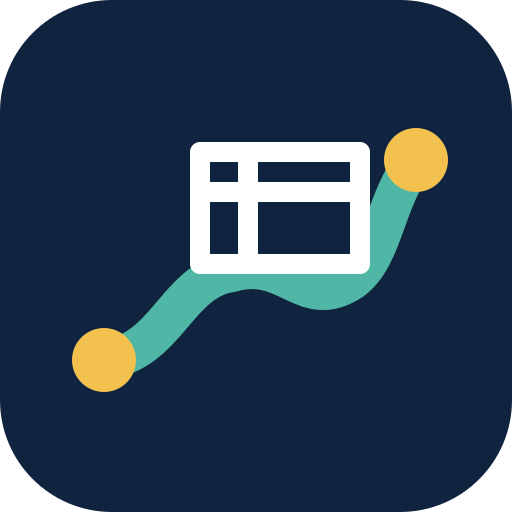
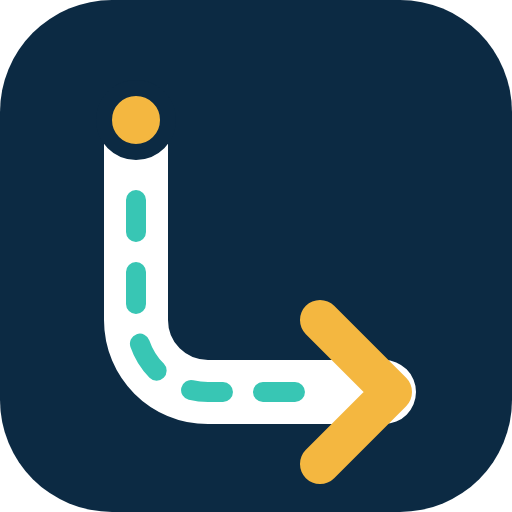
Polish public marketplace and brand
Implements FEAT-MKT-001 and FEAT-IAM-001 public Board navigation, identity-safe truck imagery, and installable brand assets.

Changed region(s): [[0.125, 0.1875, 0.875, 0.9688]]

diff --git a/src/components/public-board-preview.tsx b/src/components/public-board-preview.tsx
@@ -1,13 +1,16 @@
 "use client";
 
 import React from 'react';
+import Image from 'next/image';
 import Link from 'next/link';
 import { useRouter } from 'next/navigation';
-import { ArrowRight, Banknote, Boxes, CalendarClock, CircleDotDashed, Clock3, Eye, Gauge, Layers3, LockKeyhole, MapPin, MapPinned, Route, ShieldCheck, Truck, UserRound, Waypoints } from 'lucide-react';
+import { ArrowRight, Banknote, Boxes, CalendarClock, CircleDotDashed, Clock3, Eye, Gauge, Layers3, MapPin, MapPinned, Route, Truck, UserRound, Waypoints } from 'lucide-react';
+import { vehicleConfigurationImage } from '@/lib/vehicle-configurations';
 
 type ShipmentPreview={movement_scope:string;origin?:string|null;destination?:string|null;local_place_label?:string|null;pickup_area_label?:string|null;dropoff_area_label?:string|null;load_type?:string|null;vehicle_category?:string|null;pickup_label?:string|null;delivery_label?:string|null;price_mode?:string|null;price_minor?:number|null;distribution_mode?:string|null;posted_label?:string|null};
-type TruckPreview={status:string;available_percent?:number|null;available_again_date?:string|null;available_again_place_label?:string|null;movement_scope?:string|null;local_place_label?:string|null;local_radius_km?:number|null;location_area?:string|null;location_precision_km?:number|null;current_route_origin?:string|null;current_route_destination?:string|null;origin?:string|null;destination?:string|null;travel_date?:string|null;planned_space_status?:string|null;vehicle_make?:string|null;vehicle_model?:string|null;cargo_configuration?:string|null;accepts_full_load:boolean;accepts_partial_load:boolean;accepts_multi_pick:boolean;accepts_multi_drop:boolean;open_to_contract_lanes:boolean;proof_available:boolean;freshness?:string|null;updated_label?:string|null};
+type TruckPreview={status:string;available_percent?:number|null;available_again_date?:string|null;available_again_place_label?:string|null;movement_scope?:string|null;local_place_label?:string|null;local_radius_km?:number|null;location_area?:string|null;location_precision_km?:number|null;current_route_origin?:string|null;current_route_destination?:string|null;origin?:string|null;destination?:string|null;travel_date?:string|null;planned_space_status?:string|null;cargo_configuration?:string|null;accepts_full_load:boolean;accepts_partial_load:boolean;accepts_multi_pick:boolean;accepts_multi_drop:boolean;open_to_contract_lanes:boolean;proof_available:boolean;freshness?:string|null;updated_label?:string|null};
 type SharedPreview={pool:{member_count:number;origin:string|null;destination:string|null;origin_spread_km:number;destination_spread_km:number;earliest_pickup:string|null;latest_delivery:string|null}|null;along:{member_count:number;origin:string|null;destination:string|null;loaded_distance_km:number;connector_distance_km:number;stops:{origin:string|null;destination:string|null}[]}|null};
+type PublicBoard='SHIPMENTS'|'TRUCKS';
 
 function priceLabel(shipment:ShipmentPreview){
   if(shipment.price_mode==='QUOTE_REQUESTED')return 'Request quotes';
@@ -33,50 +36,56 @@ function stopPolicy(truck:TruckPreview){
   return 'Direct only';
 }
 
+function capacityStatus(status:string){
+  return status.charAt(0)+status.slice(1).toLowerCase().replaceAll('_',' ');
+}
+
 function truckRoute(truck:TruckPreview){
   if(truck.status==='PARTIAL'&&truck.current_route_origin)return `${truck.current_route_origin} → ${truck.current_route_destination}`;
   if(truck.origin)return `${truck.origin} → ${truck.destination}`;
   if(truck.movement_scope==='LOCAL')return `Local in ${truck.local_place_label||truck.location_area||'selected city'}`;
   if(truck.movement_scope==='BOTH'&&truck.local_place_label)return `Local + long-distance · ${truck.local_place_label}`;
-  return truck.status==='EMPTY'?'Willing to go anywhere':'Preferred route available after login';
+  return truck.status==='EMPTY'?'Willing to go anywhere':'Route not specified';
 }
 
-export function PublicBoardPreview({shipments,trucks,shared}:{shipments:ShipmentPreview[];trucks:TruckPreview[];shared:SharedPreview}){
+export function PublicBoardPreview({initialBoard,shipments,trucks,shared}:{initialBoard:PublicBoard;shipments:ShipmentPreview[];trucks:TruckPreview[];shared:SharedPreview}){
   const router=useRouter();
-  const [active,setActive]:['SHIPMENTS'|'TRUCKS',(value:'SHIPMENTS'|'TRUCKS')=>void]=React.useState('SHIPMENTS');
+  const [active,setActive]:[PublicBoard,(value:PublicBoard)=>void]=React.useState(initialBoard);
+  React.useEffect(()=>setActive(initialBoard),[initialBoard]);
   React.useEffect(()=>{
     const timer=window.setInterval(()=>{if(document.visibilityState==='visible')router.refresh();},60000);
     return()=>window.clearInterval(timer);
   },[router]);
+  const selectBoard=(board:PublicBoard)=>{
+    setActive(board);
+    router.push(`/?board=${board}#marketplace-preview-title`);
+  };
   const rows=active==='SHIPMENTS'?shipments:trucks;
-  const label=active==='SHIPMENTS'?'Shipment Board':'Truck Board';
-  const BoardIcon=active==='SHIPMENTS'?Boxes:Truck;
   return <section className="public-board-section" aria-labelledby="marketplace-preview-title"><div className="container">
-    <div className="public-board-heading"><div><span className="eyebrow"><Eye aria-hidden="true"/>Live marketplace</span><h2 id="marketplace-preview-title">Shipments meet available trucks.</h2></div><p>Real routes and matching signals. Member identity and contact stay protected.</p></div>
+    <div className="public-board-heading"><div><span className="eyebrow"><Eye aria-hidden="true"/>Live marketplace</span><h2 id="marketplace-preview-title">Shipments meet available trucks.</h2></div></div>
     <div className="public-board-shell">
       <div className="public-board-tabs" role="tablist" aria-label="Marketplace boards">
-        <button type="button" role="tab" aria-selected={active==='SHIPMENTS'} className={active==='SHIPMENTS'?'active':''} onClick={()=>setActive('SHIPMENTS')}><Boxes aria-hidden="true"/><span>Shipment Board</span></button>
-        <button type="button" role="tab" aria-selected={active==='TRUCKS'} className={active==='TRUCKS'?'active':''} onClick={()=>setActive('TRUCKS')}><Truck aria-hidden="true"/><span>Truck Board</span></button>
+        <button type="button" role="tab" aria-controls="marketplace-preview-panel" aria-selected={active==='SHIPMENTS'} className={active==='SHIPMENTS'?'active':''} onClick={()=>selectBoard('SHIPMENTS')}><Boxes aria-hidden="true"/><span>Shipment Board</span></button>
+        <button type="button" role="tab" aria-controls="marketplace-preview-panel" aria-selected={active==='TRUCKS'} className={active==='TRUCKS'?'active':''} onClick={()=>selectBoard('TRUCKS')}><Truck aria-hidden="true"/><span>Truck Board</span></button>
       </div>
-      <div className="public-board-toolbar"><strong><BoardIcon aria-hidden="true"/>{label}</strong><span><LockKeyhole aria-hidden="true"/>Names and contacts require login</span></div>
-      <div className="public-board-list" role="tabpanel">
+      <div className="public-board-list" id="marketplace-preview-panel" role="tabpanel">
         {active==='SHIPMENTS'?<>
           {shared.pool||shared.along?<div className="public-shared-matches">
             {shared.pool?<article><Layers3 aria-hidden="true"/><div><span className="status green">Pool together</span><h3>{shared.pool.member_count} Partial Truckload shipments</h3><p>{shared.pool.origin} <ArrowRight aria-hidden="true"/> {shared.pool.destination}</p><small><CircleDotDashed aria-hidden="true"/> Origins within {shared.pool.origin_spread_km} km · destinations within {shared.pool.destination_spread_km} km</small></div><Link href="/login" className="button secondary"><Eye aria-hidden="true"/>View</Link></article>:null}
             {shared.along?<article><MapPinned aria-hidden="true"/><div><span className="status blue">Along the route</span><h3>{shared.along.member_count} shipments in travel order</h3><p>{shared.along.origin} <ArrowRight aria-hidden="true"/> {shared.along.destination}</p><small><Route aria-hidden="true"/> {shared.along.loaded_distance_km} km carrying shipments · {shared.along.connector_distance_km} km between work</small></div><Link href="/login" className="button secondary"><Eye aria-hidden="true"/>View</Link></article>:null}
           </div>:null}
           {(shipments as ShipmentPreview[]).map((shipment,index)=><article className="locked-board-card rich-preview-card" key={index}>
-          <div className="preview-card-main"><div className="preview-card-title"><span className="status green">{shipment.load_type||'Freight'}</span><h3>{shipment.vehicle_category||'Road-freight shipment'}</h3></div><p className="preview-route"><Waypoints aria-hidden="true"/>{shipmentRoute(shipment)}</p><div className="preview-identity"><UserRound aria-hidden="true"/><span><small>Business</small><strong>Shown after login</strong></span><ShieldCheck aria-label="Member identity protected"/></div></div>
+          <div className="preview-card-main"><div className="preview-card-title"><span className="status green">{shipment.load_type||'Freight'}</span><h3>{shipment.vehicle_category||'Road-freight shipment'}</h3></div><p className="preview-route"><Waypoints aria-hidden="true"/>{shipmentRoute(shipment)}</p></div>
           <div className="locked-card-facts"><div><Truck aria-hidden="true"/><span><small>Truck needed</small><strong>{shipment.vehicle_category||'Discuss directly'}</strong></span></div><div><CalendarClock aria-hidden="true"/><span><small>Pick up before</small><strong>{shipment.pickup_label||'Date open'}</strong></span></div><div><Clock3 aria-hidden="true"/><span><small>Drop off before</small><strong>{shipment.delivery_label||'Date open'}</strong></span></div><div><Banknote aria-hidden="true"/><span><small>Price</small><strong>{priceLabel(shipment)}</strong></span></div></div>
           <div className="preview-tags"><span>{shipment.movement_scope==='LOCAL'?'Local':'Long-distance route'}</span><span>{shipment.distribution_mode==='OPEN_MARKET'?'Public':'Limited'}</span><span>Posted {shipment.posted_label||'recently'}</span></div>
           <div className="preview-card-actions"><Link href="/login" className="button secondary"><Eye aria-hidden="true"/>Details</Link><Link href="/login" className="button"><UserRound aria-hidden="true"/>Contact<ArrowRight aria-hidden="true"/></Link></div>
         </article>)}</>:(trucks as TruckPreview[]).map((truck,index)=><article className="locked-board-card rich-preview-card" key={index}>
-          <div className="preview-card-main"><div className="preview-card-title"><span className="status green">{truck.status}{truck.status!=='BUSY'?` · ${truck.available_percent||0}%`:''}</span><h3>{[truck.vehicle_make,truck.vehicle_model].filter(Boolean).join(' · ')||truck.cargo_configuration||'Available truck'}</h3></div><p className="preview-route"><Route aria-hidden="true"/>{truckRoute(truck)}</p><div className="preview-identity"><UserRound aria-hidden="true"/><span><small>Transporter</small><strong>Shown after login</strong></span><ShieldCheck aria-label="Member identity protected"/></div></div>
-          <div className="locked-card-facts"><div><Truck aria-hidden="true"/><span><small>Cargo configuration</small><strong>{truck.cargo_configuration||'Truck configuration'}</strong></span></div><div><MapPin aria-hidden="true"/><span><small>Current area</small><strong>{truck.location_area||truck.local_place_label||'General area shared'}</strong></span></div><div><Boxes aria-hidden="true"/><span><small>{truck.status==='BUSY'?'Available near':'Accepting'}</small><strong>{truck.status==='BUSY'?truck.available_again_place_label||'Expected area pending':`${acceptedLoads(truck)} · ${stopPolicy(truck)}`}</strong></span></div><div><Clock3 aria-hidden="true"/><span><small>Freshness</small><strong>{truck.updated_label||truck.freshness||'Recently updated'}</strong></span></div></div>
-          <div className="preview-tags"><span>{truck.movement_scope==='BOTH'?'Local + long-distance':truck.movement_scope==='LOCAL'?'Local':'Long-distance route'}</span><span>{truck.proof_available?'Photo recorded':'No photo'}</span><span>{truck.open_to_contract_lanes?'Contract routes':'Single trip'}</span>{truck.status==='BUSY'&&truck.available_again_date?<span>Ready {truck.available_again_date}</span>:null}</div>
+          <div className="preview-card-main truck-preview-main"><Image className="truck-thumbnail large" src={vehicleConfigurationImage(truck.cargo_configuration)} alt={truck.cargo_configuration||'Truck configuration'} width={120} height={120}/><div><div className="preview-card-title"><span className="status green">{capacityStatus(truck.status)}{truck.status!=='BUSY'?` · ${truck.available_percent||0}%`:''}</span><h3>{truck.cargo_configuration||'Available truck'}</h3></div><p className="preview-route"><Route aria-hidden="true"/>{truckRoute(truck)}</p></div></div>
+          <div className="locked-card-facts"><div><MapPin aria-hidden="true"/><span><small>Current area</small><strong>{truck.location_area||truck.local_place_label||'Area not set'}</strong></span></div><div><Boxes aria-hidden="true"/><span><small>Shipment size</small><strong>{acceptedLoads(truck)}</strong></span></div><div><Route aria-hidden="true"/><span><small>Stops</small><strong>{stopPolicy(truck)}</strong></span></div><div><Clock3 aria-hidden="true"/><span><small>Updated</small><strong>{truck.updated_label||truck.freshness||'Recently updated'}</strong></span></div></div>
+          <div className="preview-tags"><span>{truck.movement_scope==='BOTH'?'Local + long-distance':truck.movement_scope==='LOCAL'?'Local':'Long-distance route'}</span><span>{truck.proof_available?'Photo recorded':'No photo'}</span><span>{truck.open_to_contract_lanes?'Contract routes':'Single trip'}</span>{truck.status==='BUSY'&&truck.available_again_place_label?<span>Available near {truck.available_again_place_label}</span>:null}{truck.status==='BUSY'&&truck.available_again_date?<span>Ready {truck.available_again_date}</span>:null}</div>
           <div className="preview-card-actions"><Link href="/login" className="button secondary"><Eye aria-hidden="true"/>Details</Link><Link href="/login" className="button"><UserRound aria-hidden="true"/>Contact<ArrowRight aria-hidden="true"/></Link></div>
         </article>)}
-        {!rows.length?<div className="empty-state"><Gauge aria-hidden="true"/><strong>No public signals right now.</strong><span>Check again soon.</span></div>:null}
+        {!rows.length?<div className="empty-state"><Gauge aria-hidden="true"/><strong>No listings right now.</strong><span>Check again soon.</span></div>:null}
       </div>
     </div>
   </div></section>;

diff --git a/tests/e2e/smoke.spec.ts b/tests/e2e/smoke.spec.ts
@@ -24,8 +24,17 @@ test('PWA manifest and service worker are active', async ({ page, request }: { p
   const manifest = await manifestResponse.json();
   expect(manifest.display).toBe('standalone');
   expect(manifest.start_url).toBe('/app/home');
+  expect(manifest.theme_color).toBe('#0c2a43');
+  expect(manifest.icons).toEqual(expect.arrayContaining([
+    expect.objectContaining({ src: '/icon-192.png', purpose: 'any' }),
+    expect.objectContaining({ src: '/icon-maskable-512.png', purpose: 'maskable' })
+  ]));
+  for (const asset of ['/icon.svg','/favicon-32.png','/icon-192.png','/icon-512.png','/icon-maskable-512.png','/apple-touch-icon.png']) {
+    expect((await request.get(asset)).ok()).toBeTruthy();
+  }
   const workerSource = await (await request.get('/sw.js')).text();
-  expect(workerSource).toContain("loadgistic-static-v4");
+  expect(workerSource).toContain("loadgistic-static-v5");
+  expect(workerSource).toContain("/favicon-32.png");
   expect(workerSource).not.toContain("startsWith('/_next/static/')");
   await page.goto('/login');
   await page.getByLabel('Email').fill('pwa-install-probe@example.test');
@@ -46,7 +55,8 @@ test('PWA manifest and service worker are active', async ({ page, request }: { p
   expect(executableChunkResult.body).not.toBe('stale-runtime');
   await page.getByRole('link', { name: 'Loadgistic home' }).click();
   await expect(page).toHaveURL('/');
-  await expect(page.getByRole('heading', { name: "Ethiopia's road-freight marketplace." })).toBeVisible();
+  await expect(page.getByRole('heading', { name: 'Road freight, connected across Ethiopia.' })).toBeVisible();
+  await expect(page.getByRole('link',{name:'Loadgistic home'}).locator('img')).toHaveAttribute('src','/icon.svg');
 });
 
 test('anonymous users cannot browse Business or transporter profiles', async ({ page, request }: { page: any; request: any }) => {
@@ -270,18 +280,22 @@ test('self-service signup creates an immediately usable seven-day trial', async 
 
 test('homepage previews live structured Board facts without exposing member identity', async ({ page }: { page: any }) => {
   await page.goto('/');
-  await expect(page.getByRole('heading', { name: "Ethiopia's road-freight marketplace." })).toBeVisible();
-  await expect(page.getByText('Growing businesses find road capacity. Transporters find useful demand.')).toBeVisible();
+  await expect(page.getByRole('heading', { name: 'Road freight, connected across Ethiopia.' })).toBeVisible();
+  await expect(page.getByText(/growing producers and established businesses/)).toBeVisible();
   await expect(page.getByRole('tab',{name:'Shipment Board'})).toHaveAttribute('aria-selected','true');
-  expect(await page.getByText('Shown after login').count()).toBeGreaterThan(0);
+  await expect(page.getByText('Real routes and matching signals. Member identity and contact stay protected.')).toHaveCount(0);
+  await expect(page.getByText('Names and contacts require login')).toHaveCount(0);
+  await expect(page.getByText('Shown after login')).toHaveCount(0);
   expect(await page.getByText('Pick up before').count()).toBeGreaterThan(0);
   expect(await page.getByText('Price').count()).toBeGreaterThan(0);
   await expect(page.getByText('BlueLine Transport PLC')).toHaveCount(0);
   await expect(page.getByText('Beverage shipment to Dire Dawa')).toHaveCount(0);
   await page.getByRole('tab',{name:'Truck Board'}).click();
   await expect(page.getByRole('tab',{name:'Truck Board'})).toHaveAttribute('aria-selected','true');
-  expect(await page.getByText('Cargo configuration').count()).toBeGreaterThan(0);
-  expect(await page.getByText('Accepting').count()).toBeGreaterThan(0);
+  expect(await page.locator('.truck-preview-main img').count()).toBeGreaterThan(0);
+  await expect(page.locator('.truck-preview-main img').first()).toHaveAttribute('src',/vehicle-configurations/);
+  expect(await page.getByText('Shipment size').count()).toBeGreaterThan(0);
+  expect(await page.getByText('Stops').count()).toBeGreaterThan(0);
   await expect(page.getByText('BlueLine Transport PLC')).toHaveCount(0);
   await page.getByRole('link',{name:'Contact'}).first().click();
   await expect(page).toHaveURL('/login');
@@ -297,6 +311,19 @@ test('homepage previews live structured Board facts without exposing member iden
   await expect(logIn).toHaveClass(/button/);
   await expect(signUp.locator('svg')).toHaveCount(1);
   await expect(logIn.locator('svg')).toHaveCount(1);
+});
+
+test('desktop public navigation opens the selected marketplace Board', async ({ page }: { page:any }, testInfo:{project:{name:string}}) => {
+  test.skip(testInfo.project.name==='mobile-chromium','The compact mobile header uses the Board tabs in the page.');
+  await page.goto('/');
+  await page.locator('.public-header').getByRole('link',{name:'Truck Board'}).click();
+  await expect(page).toHaveURL(/\?board=TRUCKS#marketplace-preview-title$/);
+  await expect(page.getByRole('tab',{name:'Truck Board'})).toHaveAttribute('aria-selected','true');
+  await page.locator('.public-header').getByRole('link',{name:'Shipment Board'}).click();
+  await expect(page).toHaveURL(/\?board=SHIPMENTS#marketplace-preview-title$/);
+  await expect(page.getByRole('tab',{name:'Shipment Board'})).toHaveAttribute('aria-selected','true');
+  await page.goBack();
+  await expect(page.getByRole('tab',{name:'Truck Board'})).toHaveAttribute('aria-selected','true');
 });
 
 test('fleet transporter lands on a management dashboard and updates capacity in My Fleet', async ({ page }: { page: any }) => {

diff --git a/src/app/globals.css b/src/app/globals.css
@@ -30,12 +30,12 @@ img { max-width: 100%; }
 .container { width: min(1160px, calc(100% - 32px)); margin: 0 auto; }
 .public-header { position: sticky; top: 0; z-index: 20; border-bottom: 1px solid rgba(229,234,242,.9); background: rgba(255,255,255,.94); backdrop-filter: blur(14px); }
 .public-nav { height: 72px; display: flex; align-items: center; justify-content: space-between; gap: 24px; }
-.logo { display: inline-flex; align-items: center; gap: 10px; font-size: 1.2rem; font-weight: 850; color: var(--blue-dark); }
-.logo-mark { width: 36px; height: 36px; border-radius: 8px; display:grid; place-items:center; color:white; background:#10243f; box-shadow:0 7px 16px rgba(16,36,63,.2); }
-.logo-mark svg { width:32px; height:32px; overflow:visible; }
-.logo-mark .logo-route { fill:none; stroke:#50b7a6; stroke-width:5; stroke-linecap:round; }
-.logo-mark circle { fill:#f2c14e; }
-.logo-mark .logo-cargo { fill:#10243f; stroke:white; stroke-width:2.5; stroke-linejoin:round; }
+.logo { display:inline-flex; align-items:center; gap:10px; color:#0c2a43; }
+.logo-mark { width:40px; height:40px; display:grid; place-items:center; flex:0 0 auto; filter:drop-shadow(0 6px 10px rgba(12,42,67,.18)); }
+.logo-mark img { width:40px; height:40px; display:block; }
+.logo-wordmark { display:inline-flex; align-items:baseline; font-size:1.2rem; letter-spacing:0; line-height:1; }
+.logo-wordmark strong { font-weight:850; }
+.logo-wordmark > span { color:#1769e0; font-weight:760; }
 .public-links { display: flex; align-items: center; gap: 22px; color: #3f4a5f; font-size: .93rem; }
 .public-nav .public-session-compact { display:none; }
 .public-session-compact { align-items:center; gap:7px; }
@@ -57,7 +57,7 @@ img { max-width: 100%; }
 .marketplace-intro p { margin:0; color:#eef4f1; font-size:1.08rem; }
 .public-board-section { padding:32px 0 48px; background:#eef3f8; }
 .public-board-heading { display:flex; justify-content:space-between; align-items:flex-end; gap:20px; margin-bottom:16px; }
-.public-board-heading h2 { margin:9px 0 0; font-size:1.8rem; }
+.public-board-heading h2 { scroll-margin-top:92px; margin:9px 0 0; font-size:1.8rem; }
 .public-board-heading p { margin:0; color:var(--muted); }
 .public-board-shell { overflow:hidden; border:1px solid #ccd8e6; border-radius:8px; background:white; box-shadow:0 14px 34px rgba(28,49,88,.08); }
 .public-board-tabs { display:grid; grid-template-columns:1fr 1fr; border-bottom:1px solid #d8e1ec; background:#f7f9fc; }
@@ -65,10 +65,6 @@ img { max-width: 100%; }
 .public-board-tabs button:last-child { border-right:0; }
 .public-board-tabs button.active { color:var(--blue-dark); background:white; box-shadow:inset 0 -3px 0 var(--blue); }
 .public-board-tabs svg { width:21px; height:21px; }
-.public-board-toolbar { min-height:56px; display:flex; justify-content:space-between; align-items:center; gap:16px; padding:10px 18px; border-bottom:1px solid var(--line); }
-.public-board-toolbar strong,.public-board-toolbar span { display:inline-flex; align-items:center; gap:8px; }
-.public-board-toolbar svg { width:18px; height:18px; }
-.public-board-toolbar span { color:var(--muted); font-size:.8rem; font-weight:750; }
 .public-board-list { display:grid; gap:10px; padding:12px; }
 .public-shared-matches { display:grid; grid-template-columns:1fr 1fr; gap:10px; }
 .public-shared-matches article { display:grid; grid-template-columns:40px minmax(0,1fr) auto; align-items:center; gap:12px; padding:14px; border:1px solid #cfdbe8; border-radius:7px; background:#f8fbff; }
@@ -95,14 +91,10 @@ img { max-width: 100%; }
 .preview-card-main { grid-area:main; min-width:0; }
 .preview-card-title { display:flex; align-items:center; gap:8px; flex-wrap:wrap; }
 .preview-card-title h3 { margin:0; font-size:.98rem; }
+.truck-preview-main { display:grid; grid-template-columns:96px minmax(0,1fr); gap:12px; align-items:start; }
+.truck-preview-main .truck-thumbnail.large { width:96px; height:76px; }
 .preview-route { display:flex; align-items:flex-start; gap:7px; margin:9px 0; font-weight:800; line-height:1.35; }
 .preview-route svg { width:18px; height:18px; flex:0 0 auto; color:var(--blue); }
-.preview-identity { display:flex; align-items:center; gap:7px; color:var(--muted); }
-.preview-identity > svg { width:17px; height:17px; }
-.preview-identity > svg:last-child { margin-left:auto; color:var(--green); }
-.preview-identity span,.preview-identity small,.preview-identity strong { display:block; }
-.preview-identity small { font-size:.68rem; }
-.preview-identity strong { color:var(--ink); font-size:.76rem; }
 .rich-preview-card .locked-card-facts { grid-area:facts; grid-template-columns:repeat(2,minmax(0,1fr)); }
 .preview-tags { grid-area:tags; display:flex; flex-wrap:wrap; gap:6px; }
 .preview-tags span { padding:5px 8px; border:1px solid #d9e2ec; border-radius:999px; background:#f7f9fc; color:#536176; font-size:.68rem; font-weight:750; }
@@ -1241,7 +1233,6 @@ legend { font-weight:800; padding:0 7px; }
   .public-board-heading { display:grid; align-items:start; }
   .public-board-heading h2 { font-size:1.5rem; }
   .public-board-tabs button { min-height:54px; font-size:.84rem; }
-  .public-board-toolbar { padding:9px 12px; }
   .public-board-list { padding:8px; }
   .public-shared-matches { grid-template-columns:1fr; }
   .public-shared-matches article { grid-template-columns:36px minmax(0,1fr); }

diff --git a/src/app/page.tsx b/src/app/page.tsx
@@ -6,7 +6,9 @@ import { listAnonymousMarketplacePreview } from '@/lib/repository.js';
 
 export const dynamic='force-dynamic';
 
-export default function HomePage() {
+export default async function HomePage({searchParams}:{searchParams:Promise<Record<string,string|undefined>>}) {
+  const query=await searchParams;
+  const selectedBoard=query.board==='TRUCKS'?'TRUCKS':'SHIPMENTS';
   const preview=listAnonymousMarketplacePreview(3);
   return <>
     <PublicHeader/>
@@ -14,13 +16,13 @@ export default function HomePage() {
       <section className="marketplace-intro">
         <div className="marketplace-intro-shade"/>
         <div className="container marketplace-intro-content">
-          <span>Local products <ArrowRight aria-hidden="true"/> Ethiopian trucks</span>
-          <h1>Ethiopia's road-freight marketplace.</h1>
-          <p>Growing businesses find road capacity. Transporters find useful demand.</p>
+          <span>Welcome to Loadgistic</span>
+          <h1>Road freight, connected across Ethiopia.</h1>
+          <p>Loadgistic brings growing producers and established businesses together with owner-operators, drivers, and transport companies, making shipment demand and available truck capacity easier to find.</p>
         </div>
       </section>
 
-      <PublicBoardPreview shipments={preview.shipments} trucks={preview.trucks} shared={preview.shared}/>
+      <PublicBoardPreview initialBoard={selectedBoard} shipments={preview.shipments} trucks={preview.trucks} shared={preview.shared}/>
 
       <section className="public-purpose-band">
         <div className="container public-purpose-grid">

diff --git a/public/sw.js b/public/sw.js
@@ -1,5 +1,5 @@
-const CACHE = 'loadgistic-static-v4';
-const STATIC = ['/manifest.webmanifest', '/icon.svg', '/icon-192.png', '/icon-512.png', '/apple-touch-icon.png'];
+const CACHE = 'loadgistic-static-v5';
+const STATIC = ['/manifest.webmanifest', '/icon.svg', '/favicon-32.png', '/icon-192.png', '/icon-512.png', '/icon-maskable-512.png', '/apple-touch-icon.png'];
 
 self.addEventListener('install', event => {
   event.waitUntil(caches.open(CACHE).then(cache => cache.addAll(STATIC)).then(() => self.skipWaiting()));
@@ -18,8 +18,10 @@ self.addEventListener('fetch', event => {
   const url = new URL(event.request.url);
   if (url.origin !== self.location.origin) return;
   const cacheable = url.pathname === '/icon.svg'
+    || url.pathname === '/favicon-32.png'
     || url.pathname === '/icon-192.png'
     || url.pathname === '/icon-512.png'
+    || url.pathname === '/icon-maskable-512.png'
     || url.pathname === '/apple-touch-icon.png'
     || url.pathname === '/manifest.webmanifest'
     || url.pathname.startsWith('/vehicle-configurations/');

diff --git a/src/app/layout.tsx b/src/app/layout.tsx
@@ -9,7 +9,8 @@ export const metadata: Metadata = {
   manifest: '/manifest.webmanifest',
   applicationName: 'Loadgistic',
   icons: {
-    icon: [{ url: '/icon-192.png', sizes: '192x192', type: 'image/png' }, { url: '/icon-512.png', sizes: '512x512', type: 'image/png' }],
+    icon: [{ url: '/icon.svg', sizes: 'any', type: 'image/svg+xml' }, { url: '/favicon-32.png', sizes: '32x32', type: 'image/png' }, { url: '/icon-192.png', sizes: '192x192', type: 'image/png' }, { url: '/icon-512.png', sizes: '512x512', type: 'image/png' }],
+    shortcut: [{ url: '/favicon-32.png', sizes: '32x32', type: 'image/png' }],
     apple: [{ url: '/apple-touch-icon.png', sizes: '180x180', type: 'image/png' }]
   },
   appleWebApp: {
@@ -24,7 +25,7 @@ export const viewport = {
   width: 'device-width',
   initialScale: 1,
   viewportFit: 'cover',
-  themeColor: '#1769e0'
+  themeColor: '#0c2a43'
 };
 
 export default function RootLayout({ children }: Readonly<{ children: React.ReactNode }>) {

diff --git a/src/components/public-header.tsx b/src/components/public-header.tsx
@@ -10,8 +10,8 @@ export async function PublicHeader() {
       <div className="container public-nav">
         <Logo />
         <nav className="public-links" aria-label="Public navigation">
-          <Link href="/#marketplace-preview-title"><Boxes aria-hidden="true"/>Shipment Board</Link>
-          <Link href="/#marketplace-preview-title"><Truck aria-hidden="true"/>Truck Board</Link>
+          <Link href="/?board=SHIPMENTS#marketplace-preview-title"><Boxes aria-hidden="true"/>Shipment Board</Link>
+          <Link href="/?board=TRUCKS#marketplace-preview-title"><Truck aria-hidden="true"/>Truck Board</Link>
           <Link href="/about"><Info aria-hidden="true"/>About</Link>
           {user
             ? <Link className="button" href="/app/home"><LayoutDashboard aria-hidden="true"/>Workspace</Link>

diff --git a/src/components/logo.tsx b/src/components/logo.tsx
@@ -3,8 +3,8 @@ import Link from 'next/link';
 export function Logo({ href = '/' }: { href?: string }) {
   return (
     <Link href={href} className="logo" aria-label="Loadgistic home">
-      <span className="logo-mark" aria-hidden="true"><svg viewBox="0 0 64 64"><path className="logo-route" d="M13 45c8-1 9-10 16-11 7-2 9 5 15 1 4-3 4-10 8-15"/><circle cx="13" cy="45" r="4"/><circle cx="52" cy="20" r="4"/><path className="logo-cargo" d="M25 19h20v14H25zM25 24h20M31 19v14"/></svg></span>
-      <span>Loadgistic</span>
+      <span className="logo-mark" aria-hidden="true"><img src="/icon.svg" alt="" width="40" height="40"/></span>
+      <span className="logo-wordmark"><strong>Load</strong><span>gistic</span></span>
     </Link>
   );
 }

diff --git a/src/lib/repository.js b/src/lib/repository.js
@@ -2853,8 +2853,6 @@ export function listAnonymousMarketplacePreview(limit=3) {
     destination:publicPlaceLabel(row.destination,row.destination_place_ref),
     travel_date:row.travel_date,
     planned_space_status:row.planned_space_status,
-    vehicle_make:row.vehicle_make,
-    vehicle_model:row.vehicle_model,
     cargo_configuration:row.cargo_configuration||row.vehicle_category,
     accepts_full_load:Boolean(row.accepts_full_load),
     accepts_partial_load:Boolean(row.accepts_partial_load),

diff --git a/specs/TRACEABILITY.md b/specs/TRACEABILITY.md
@@ -2,14 +2,14 @@
 
 | Feature | Frontend | Backend/domain | Deployment concern | Primary tests |
 |---|---|---|---|---|
-| `FEAT-IAM-001` | Login, protected navigation, private account contacts, and installable PWA shell | Auth, session, role policy, network-first authenticated pages | Session secret, proxy-safe redirects, service-worker cache boundary | repository, authorization, E2E |
+| `FEAT-IAM-001` | Login, protected navigation, private account contacts, and installable PWA shell with synchronized favicon, Apple, and maskable brand icons | Auth, session, role policy, network-first authenticated pages | Session secret, proxy-safe redirects, service-worker cache boundary and static-icon refresh | repository, authorization, E2E |
 | `FEAT-APP-001` | Immediate signup | Atomic active-workspace and seven-day-trial provisioning | Rate limiting, audit, transactional rollback | repository, authorization, E2E |
 | `FEAT-SHP-001` | Numbered marketplace posting, universal categorized My Shipments, searchable and truck-ranked Shipment Board cards with inline provider actions, owner deadline warnings, visual truck and Driver assignment, deadlines, designated phone, and Business ratings | Shipment owner and later shipper/receiver party model, external counterpart, persistent provider interactions, driver-backed execution assignment, two-day Board grace, staged contact disclosure, participant reviews, and transitions | Durable DB, deadline clock, audit | domain, repository, authorization, E2E |
 | `FEAT-CAP-001` | Status-driven Driver Home, permission-aware company Driver Home, Fleet-based truck controls, automatic location with Retry, visible ordered Empty/Partial/Busy/Off Duty, Empty-specific route/load choices, Partial live route, stop, regular-work, and sharing decisions, complete Business truck cards, and anonymized provider truck cards | Availability-implied duty, Driver-authoritative current area, fleet-owner location/timestamp preservation, Local Partial support, Partial Truckload implication, structured Busy future place, stale Empty/Partial visibility and ranking, dated Busy removal, identity-safe per-truck provider projection, driver policy, authoritative vehicle rows, Preferred Route matching, proof context, relationship scope | Geolocation permission, bounded watcher lifecycle, private upload storage, and anonymous-projection review | domain, repository, authorization, E2E, UI audit |
 | `FEAT-PRV-001` | Search-first, seven-result authenticated Directory and Public Profiles, Freight/Preferred Routes, live truck route maps, evidence counts, profile comparison, ratings, fleet roster, and explicit public contacts | Public-phone and owner-name search, private account-contact exclusion, visibility, ownership, member-entered route pairs, fresh truck route projection, record-derived route evidence, explainable comparison, rating summaries, and vehicle-derived fleet counts | Authenticated-field and map-tile review | repository, authorization, E2E |
 | `FEAT-NET-001` | My Network, cross-market relationships, same-side Business Favorites, requests, decisions, and profile/directory actions | Favorite, Pending, Connected, requester direction, favorite-ranked party search, and mutual Partners visibility | Relationship audit, notification boundary, additive migration | repository, authorization, E2E |
 | `FEAT-FLT-001` | Ordered Driver identity, exclusive truck assignment, shipment truck/Driver selection, permission controls, and restricted/full company Driver Home states | Fleet membership, exclusive active driver/truck assignment, driver permission policy, assigned-truck scope, duty command, shipment execution assignment, and owner oversight | Additive schema migration and conservative defaults | repository, authorization, E2E |
-| `FEAT-MKT-001` | Short public purpose banner, live identity-safe Shipment Board and Truck Board tabs, pooled/along-route previews, audience-specific application paths, concise About page, and distinctive route-and-cargo mark/icons | Explicit anonymous projection whitelist over current Public records and bounded shared candidates | Projection-field review whenever Board schemas change; no raw rows or free text; evidence-safe public claims | repository, E2E, UI audit |
+| `FEAT-MKT-001` | Professional welcome, URL-backed live Shipment and Truck Boards, anonymous truck-configuration images, pooled/along-route previews, audience-specific application paths, concise About page, and shared Loadgistic mark/wordmark | Explicit anonymous projection whitelist over current Public records and bounded shared candidates | Projection-field review whenever Board schemas change; no raw rows, vehicle identifiers, or free text; evidence-safe public claims | repository, E2E, UI audit |
 | `FEAT-VER-001` | Verification center, admin review queue, profile badges, and Shipment/Truck Board trust strips | Subject ownership, type policy, review state, Board subject projection, and private-file authorization | Private storage, file limits, admin audit | repository, authorization, E2E |
 | `FEAT-TRK-001` | Post-agreement tracking setup, one ordered five-action panel with valid-state disabling and optional inline proof, automatic Driver location state, party-code unlock and idle lock, and temporary load-proof sharing UI | Status default at posting, Business-selected automatic location before assignment, Driver-only device events, governed action mapping, load-type privacy radius, keyed code digest, browser/load grant, file authorization, and temporary grants | Private storage, location privacy, expiry, and scanning | repository, authorization, E2E, UI audit |
 | `FEAT-PLC-001` | Async Ethiopia-first place comboboxes with country-qualified labels and a bounded client cache | Bundled 3,575-place OSM-derived catalog, repeatable import, country metadata, legacy-label normalization, bounded cached local search, coordinates, and built-in fallback | OSM attribution, optional PBF input, Supabase batch import, and import metrics | domain, repository, E2E |

diff --git a/specs/features/FEAT-MKT-001.md b/specs/features/FEAT-MKT-001.md
@@ -16,6 +16,7 @@ rollout: Monitor the anonymous projection whitelist whenever authenticated Board
 Given an unauthenticated visitor opens the homepage\
 When the first viewport and account-entry band render\
 Then the road-freight marketplace statement and Shipment Board identify the demand side\
+And the hero welcomes growing producers and established Businesses alongside owner-operators, Drivers, and transport companies\
 And Need a truck routes a Business to shipment and truck access\
 And the concise language remains credible for a local producer or a larger enterprise.
 
@@ -33,6 +34,8 @@ Given an unauthenticated visitor opens the homepage\
 When the first viewport renders\
 Then one short purpose statement is followed by Shipment Board and Truck Board tabs\
 And switching tabs shows current Public shipment and truck signals from the server\
+And each Public navigation Board link opens the matching selected Board instead of only scrolling to the Board region\
+And a direct Board URL and browser history preserve the selected Board\
 And the Shipment Board preview includes identity-safe examples of Pool together and Along the route matches derived from currently visible structured shipments\
 And the page avoids a long sequence of repeated marketing sections.
 
@@ -41,6 +44,7 @@ And the page avoids a long sequence of repeated marketing sections.
 Given full Boards and Public Profiles require authentication\
 When the homepage projects current Public shipments or trucks\
 Then cards may expose structured marketplace facts including routes, general areas, deadlines, price mode, truck configuration, capacity status, flexibility, proof signal, and freshness\
+And each truck card shows the standardized cargo-configuration image and name without exposing its make, model, plate, or platform number\
 And cards expose no organization or person name, phone, email, handle, profile link, raw record identifier, proof file, free-text field, or exact coordinate\
 And the server returns an explicit anonymous whitelist rather than a raw Board row\
 And pooled or along-route previews expose only derived route, count, distance, and deadline facts without source identifiers or cargo text\
@@ -52,6 +56,7 @@ And all details and contact actions resolve to sign in.
 Given a Business or transporter scans the homepage\
 When they move from the purpose statement through the identity-safe Boards to account entry\
 Then each region has one defined task\
+And the visible copy uses customer-facing marketplace language without internal implementation or privacy notes\
 And repeated claims, feature inventories, and long explanatory paragraphs are absent.
 
 ### Scenario: calls to action preserve the two marketplace sides
@@ -77,7 +82,7 @@ When Loadgistic describes its purpose\
 Then it explains reducing empty and partial capacity waste, improving truck utilization, and lowering avoidable middle-mile coordination cost\
 And it presents Ethiopian producers, growing Businesses, owner-operators, Drivers, and fleet transporters as professional economic participants\
 And it does not publish invented savings, utilization percentages, government endorsement, or guaranteed outcomes\
-And the same distinctive route-and-cargo mark appears in public navigation and installable application icons.
+And the same distinctive Loadgistic route-and-destination mark and wordmark appear across public and authenticated navigation.
 
 ## Contract ownership
 

diff --git a/specs/features/FEAT-IAM-001.md b/specs/features/FEAT-IAM-001.md
@@ -80,6 +80,7 @@ And public contact fields are maintained separately with explicit profile intent
 Given a supported mobile browser opens Loadgistic over a secure origin\
 When the browser evaluates the web app manifest and service worker\
 Then the workspace can be installed in standalone display mode\
+And its manifest, browser favicon, Apple touch icon, and installable icons use the current Loadgistic brand mark\
 And authenticated application pages remain network-first rather than being persisted in a shared offline page cache\
 And first installation does not reload a login or application form while the user is entering data\
 And the service worker does not cache Next.js executable chunks, preventing a framework upgrade from combining stale and current runtime modules.
